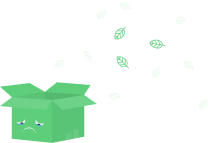
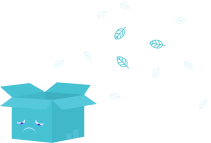
Teste

diff --git a/assets/style/styles.css b/assets/style/styles.css
@@ -1,5 +1,5 @@
 :root {
-  --emerald: #5ece7b;
+  --emerald: #00c3ff;
   --porcelain: #f1f2f3;
   --white: #ffffff;
   --gray: rgba(0, 0, 0, 0.5);

diff --git a/biblioteca.php b/biblioteca.php
@@ -344,12 +344,12 @@
           <div class="cart__products">
             <!-- Cart Empty -->
             <div class="cart__empty" data-empty-cart>
-              <img src="assets/imgs/emptycart.png" />
-              <div class="empty__title">Your bag is empty</div>
+              <img src="imgs/emptycart.png" />
+              <div class="empty__title">Seu carrinho está vazio!</div>
 
               <div class="empty__subtitle">
-                Looks like you haven’t added any items to the bag yet. Start
-                shopping to fill it in.
+                Parece que você ainda não adicionou nenhum item à sacola. Começar
+                compras para preenchê-lo.
               </div>
             </div>
             <!-- End Card Empty -->
@@ -365,9 +365,9 @@
 
           <!-- Cart Actions -->
           <div class="cart__actions">
-            <button class="cart__button" data-empty-cart>start shopping</button>
+            <button class="cart__button" data-empty-cart>Começar Compra</button>
             <button class="cart__button cart__button-secondary" data-not-empty-cart>
-              go to checkout
+              Vá para o checking
             </button>
             <div class="cart__summary" data-not-empty-cart>
               <!-- Summary Item -->

diff --git a/index.php b/index.php
@@ -119,11 +119,7 @@
     </nav>
     <div class="main-login">
         <div class="left-login">
-<<<<<<< HEAD
             <h1 >Bem Vindo a nossa <a class="btn-visita" href="sobre.html">Biblioteca Virtual</a><br><br>Faça uma <a href="bbtVisita.php"  class="btn-visita">Visita</a> ou faça o registro</h1>
-=======
-            <h1 >Bem Vindo a nossa <a class="btn-visita" href="sobre.html">Biblioteca Virtual</a><br><br>Faça uma <a href="visitabbt.php"  class="btn-visita">Visita</a> ou faça o registro</h1>
->>>>>>> a15fe148f92229aee3f748b13306895dfaa6deb8
         </div>
         <div class="right-login">
             <div class="card-login">
